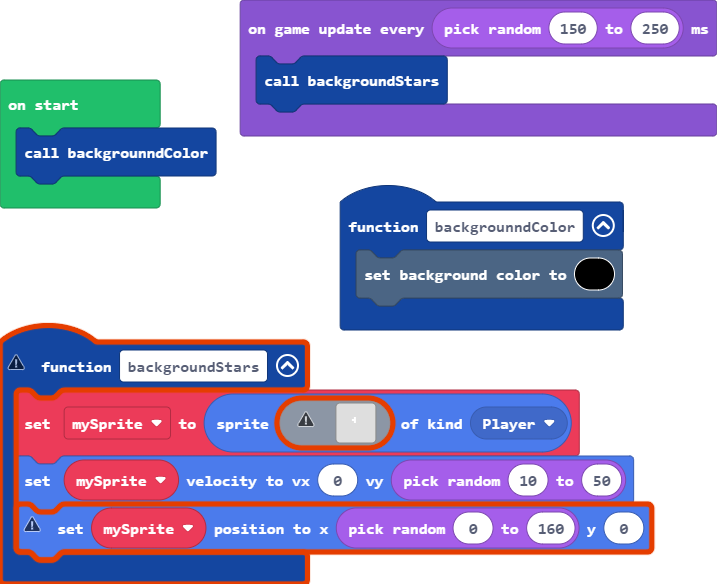
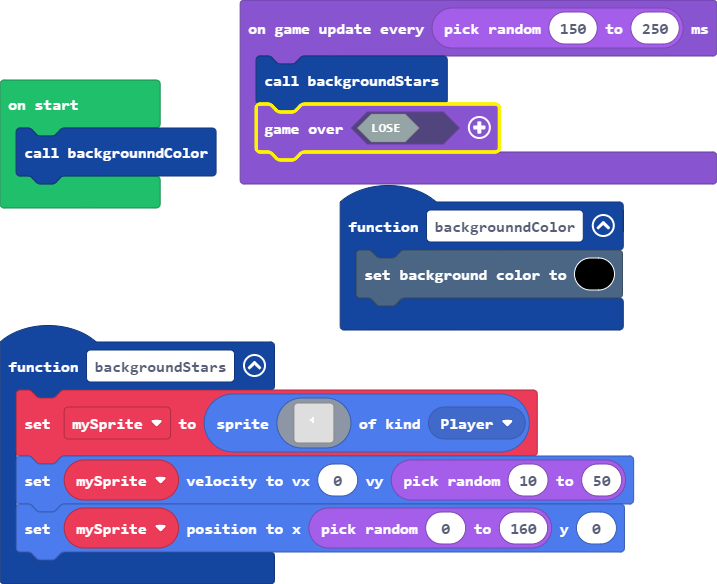
Update main.blocks, main.ts

Changed region(s): [[0.0, 0.5548, 0.9205, 1.0], [0.3068, 0.1541, 1.0, 0.339]]

diff --git a/main.ts b/main.ts
@@ -27,4 +27,5 @@ let mySprite: Sprite = null
 backgrounndColor()
 game.onUpdateInterval(randint(150, 250), function () {
     backgroundStars()
+    game.over(false)
 })
